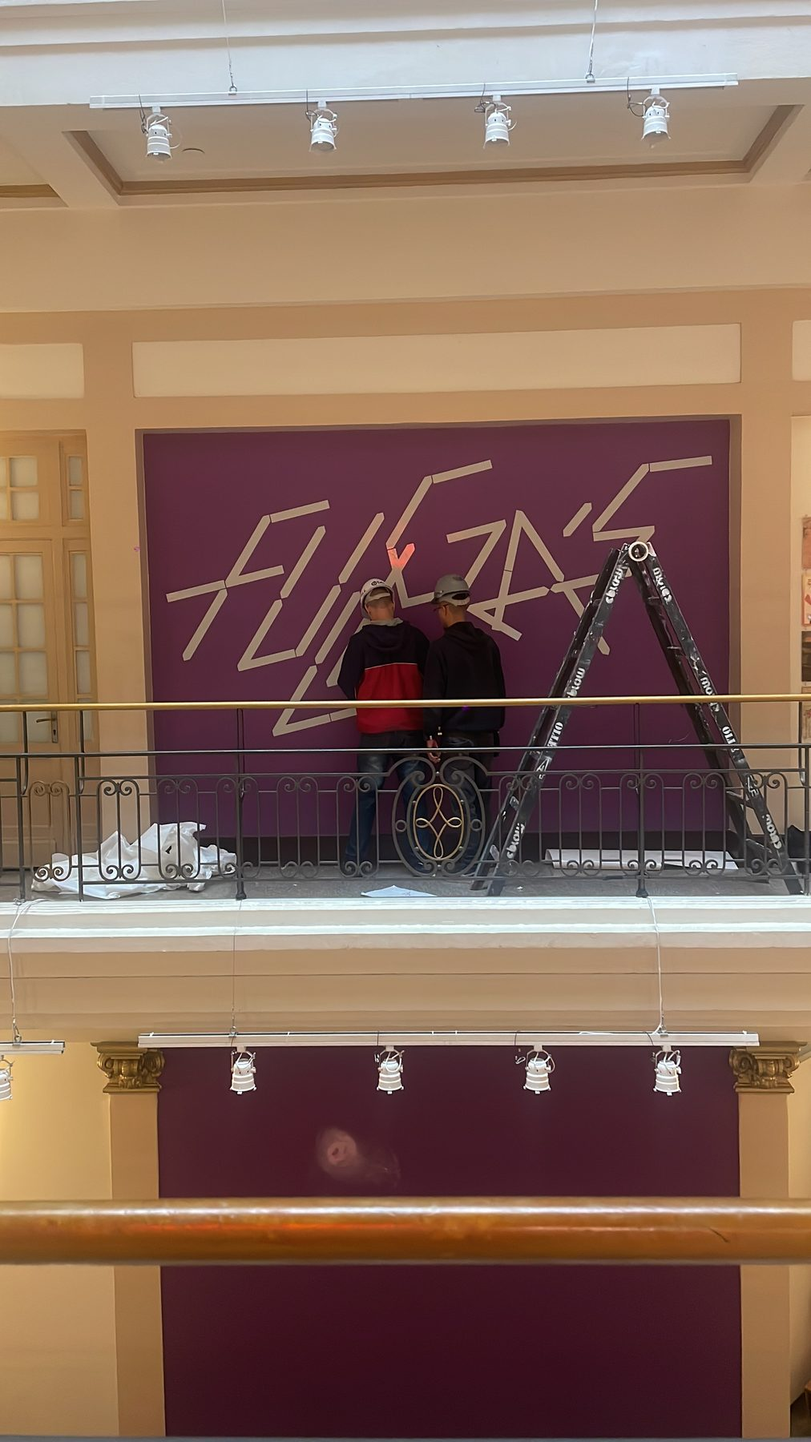
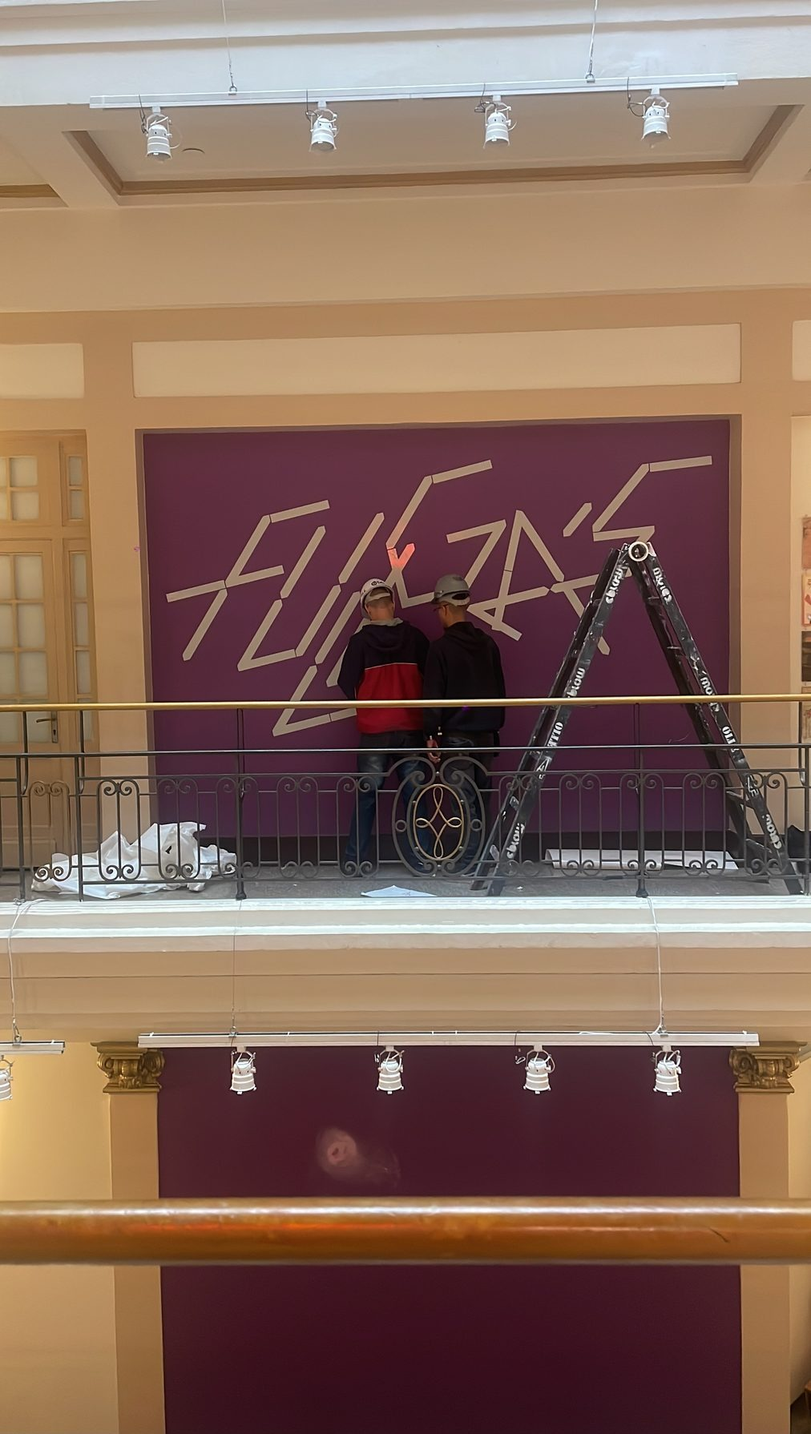
Shorter Bienal and Martinelli texts; trim grey line on Fullgás photo

diff --git a/index.html b/index.html
@@ -37,7 +37,7 @@
 
 <section class="hs" id="work" aria-label="Work">
  <div class="stage">
-  <div class="track" id="track"><div class="proj" id="101" data-tags="identity posters-flyers digital"><figure class="f" style="--r:0.8000"><video src="vid/101_listas.mp4" width="864" height="1080" muted loop playsinline preload="none" aria-label="101Ø ten years motion"></video><figcaption class="cap"><b>101Ø ten years</b><span>Identity, posters and digital materials for the tenth anniversary of the 101Ø party, an underground collective from Belo Horizonte.</span><span><i>Role</i> Visual identity, posters and digital materials</span><span><i>Motion</i> Henrique Martinelli</span><span class="tg">Identity · Posters &amp; flyers · Digital</span></figcaption></figure><figure class="f" style="--r:0.7067"><img src="img/101-5.jpg" width="1270" height="1797" alt="101Ø ten years" decoding="async" draggable="false"></figure><figure class="f" style="--r:0.8000"><img src="img/101-1.jpg" width="1440" height="1800" alt="101Ø ten years" decoding="async" draggable="false"></figure><figure class="f" style="--r:0.5622"><img src="img/101-2.jpg" width="1012" height="1800" alt="101Ø ten years" decoding="async" draggable="false"></figure><figure class="f" style="--r:0.7067"><img src="img/101-4.jpg" width="1270" height="1797" alt="101Ø ten years" decoding="async" draggable="false"></figure><figure class="f" style="--r:0.8000"><img src="img/101-3.jpg" width="1440" height="1800" alt="101Ø ten years" decoding="async" draggable="false"></figure><figure class="f" style="--r:0.8000"><video src="vid/101_std.mp4" width="864" height="1080" muted loop playsinline preload="none" aria-label="101Ø ten years motion"></video></figure></div><div class="proj" id="aicf" data-tags="posters-flyers identity"><figure class="f" style="--r:0.7074"><video src="vid/aicf_anim.mp4" width="764" height="1080" muted loop playsinline preload="none" aria-label="AI Creative Festival motion"></video><figcaption class="cap"><b>AI Creative Festival</b><span>A2 posters and digital assets for the festival. São Paulo, 2025.</span><span><i>Role</i> Development of the festival identity into posters and digital assets</span><span><i>Motion</i> Henrique Martinelli</span><span class="tg">Posters &amp; flyers · Identity</span></figcaption></figure><figure class="f" style="--r:0.7072"><img src="img/aicf-1.jpg" width="1273" height="1800" alt="AI Creative Festival" decoding="async" draggable="false"></figure><figure class="f" style="--r:0.7072"><img src="img/aicf-2.jpg" width="1273" height="1800" alt="AI Creative Festival" decoding="async" draggable="false"></figure><figure class="f" style="--r:0.7072"><img src="img/aicf-3.jpg" width="1273" height="1800" alt="AI Creative Festival" decoding="async" draggable="false"></figure><figure class="f" style="--r:0.7061"><img src="img/aicf-4.jpg" width="1271" height="1800" alt="AI Creative Festival" decoding="async" draggable="false"></figure></div><div class="proj" id="bauhaus" data-tags="exhibition"><figure class="f" style="--r:1.5000"><img src="img/bauhaus-1.jpg" width="2700" height="1800" alt="Bauhaus Imaginista" loading="lazy" decoding="async" draggable="false"><figcaption class="cap"><b>Bauhaus Imaginista</b><span>Graphic materials for the exhibition Bauhaus Imaginista: Aprendizados Recíprocos at Sesc Pompeia. São Paulo, 2018–19.</span><span><i>Role</i> Unfolding of graphic materials, production and installation coordination</span><span><i>At</i> ps.2 arquitetura + design</span><span><i>Visual identity</i> ps.2 arquitetura + design</span><span><i>Curated by</i> Marion von Osten, Grant Watson</span><span><i>Photo</i> Taba Benedicto</span><span class="tg">Exhibition</span></figcaption></figure><figure class="f" style="--r:1.5000"><img src="img/bauhaus-4.jpg" width="2700" height="1800" alt="Bauhaus Imaginista" loading="lazy" decoding="async" draggable="false"></figure><figure class="f" style="--r:1.6589"><img src="img/bauhaus-2.jpg" width="2986" height="1800" alt="Bauhaus Imaginista" loading="lazy" decoding="async" draggable="false"></figure><figure class="f" style="--r:1.5000"><img src="img/bauhaus-3.jpg" width="2700" height="1800" alt="Bauhaus Imaginista" loading="lazy" decoding="async" draggable="false"></figure></div><div class="proj" id="mercosul" data-tags="exhibition"><figure class="f" style="--r:0.5622"><img src="img/mercosul-1.jpg" width="1012" height="1800" alt="Bienal do Mercosul" loading="lazy" decoding="async" draggable="false"><figcaption class="cap"><b>Bienal do Mercosul</b><span>Exhibition graphics for Estalo, the 14th Bienal do Mercosul, adapted to the spaces of each venue. Porto Alegre, 2025.</span><span><i>Role</i> Implementation of exhibition graphics, installation support and spatial adaptation</span><span><i>At</i> Estúdio Margem</span><span><i>Visual identity</i> Margem</span><span><i>Architecture</i> Juliana Godoy</span><span><i>Curated by</i> Raphael Fonseca</span><span class="tg">Exhibition</span></figcaption></figure><figure class="f" style="--r:0.5048"><img src="img/mercosul-grid.jpg" width="782" height="1549" alt="Bienal do Mercosul" loading="lazy" decoding="async" draggable="false"></figure></div><div class="proj" id="casadopovo" data-tags="digital"><figure class="f" style="--r:1.6000"><video src="vid/cdp_scroll.mp4" width="1920" height="1200" muted loop playsinline preload="none" aria-label="Casa do Povo motion"></video><figcaption class="cap"><b>Casa do Povo</b><span>Website design for Casa do Povo, a Jewish antifascist cultural centre in Bom Retiro, São Paulo. casadopovo.org.br</span><span><i>Role</i> Website design</span><span><i>At</i> Estúdio Margem</span><span><i>Visual identity</i> Margem</span><span class="tg">Digital</span></figcaption></figure><figure class="f hov" style="--r:1.36"><p class="hovt">A <b class="cdp">CASA do POVO</b> é um espaço em constante construção. Explore os <span class="hw" data-s="projetos">projetos</span> desenvolvidos em colaboração com diferentes frentes e acompanhe os <span class="hw" data-s="eventos">eventos</span> para saber o que acontece. Conheça o <span class="hw" data-s="povo">povo da casa</span>, os coletivos que habitam e movimentam esse espaço, visite o <span class="hw" data-s="acervo">acervo</span> e <span class="hw" data-s="apoie">apoie</span> para que tudo isso continue pulsando.</p><img class="hst" alt="" aria-hidden="true"></figure><figure class="f bento" style="--r:1.36"><div class="bgrid"><div class="bt bt-projetos" style="background:#fbb6f6;grid-area:1/1/2/3"><img src="svg/projetos.svg" alt="" loading="lazy"></div><div class="bt bt-aberta" style="background:#e6f83a;grid-area:1/3/2/4"><img src="svg/aberta_anim.svg" alt="" loading="lazy"></div><div class="bt bt-logo" style="background:#f4501e;grid-area:1/4/2/5"><img src="svg/logo.svg" alt="" loading="lazy"></div><div class="bt bt-povo" style="background:#e6f83a;grid-area:2/1/3/2"><img src="svg/povo.svg" alt="" loading="lazy"></div><div class="bt bt-fechada" style="background:#fbb6f6;grid-area:2/2/3/3"><img src="svg/fechada_anim.svg" alt="" loading="lazy"></div><div class="bt bt-eventos" style="background:#ffc39b;grid-area:2/3/3/5"><img src="svg/eventos.svg" alt="" loading="lazy"></div><div class="bt bt-acervo" style="background:#0000ff;grid-area:3/1/4/2"><img src="svg/acervo_anim.svg" alt="" loading="lazy"></div><div class="bt bt-apoie" style="background:#f9c8f4;grid-area:3/2/4/3"><img src="svg/apoie.svg" alt="" loading="lazy"></div><div class="bt bt-letters" style="background:#28e3f0;grid-area:3/3/4/5" aria-label="Casa do Povo"><span class="lt">C</span><span class="lt">A</span><span class="lt">S</span><span class="lt">A</span><span class="lt">do</span><span class="lt">P</span><span class="lt">O</span><span class="lt">V</span><span class="lt">O</span></div></div></figure><figure class="f" style="--r:1.0000"><img src="img/cdp-m.jpg" width="1800" height="1800" alt="Casa do Povo" loading="lazy" decoding="async" draggable="false"></figure></div><div class="proj" id="covers" data-tags="covers-records lettering-video"><figure class="f" style="--r:1.0000"><img src="img/shi-0.jpg" width="1800" height="1800" alt="Covers" loading="lazy" decoding="async" draggable="false"><figcaption class="cap"><b>Covers — Shi is Coming</b><span>Lettering and single cover for Shi is Coming, by Shi.</span><span><i>Role</i> Lettering and cover design</span><span><i>With</i> Aleksandra Lindenberg</span><span class="tg">Covers &amp; records · Lettering &amp; video</span></figcaption></figure><figure class="f" style="--r:1.8018"><img src="img/shi-1.jpg" width="3200" height="1776" alt="Covers" loading="lazy" decoding="async" draggable="false"></figure><figure class="f" style="--r:1.0000"><img src="img/perx-2.jpg" width="1800" height="1800" alt="Covers" loading="lazy" decoding="async" draggable="false"><figcaption class="cap"><b>Covers — Martinelli</b><span>Record design for the São Paulo techno producer: the PERX vinyl with a clear sleeve, mirrored lettering and a custom label, and the Raw Cuts CD.</span><span><i>Role</i> Cover, sleeve and label design</span><span><i>PERX photos</i> Pearla Paradoxy</span><span class="tg">Covers &amp; records · Lettering &amp; video</span></figcaption></figure><figure class="f" style="--r:1.0000"><img src="img/perx-3.jpg" width="1800" height="1800" alt="Covers" loading="lazy" decoding="async" draggable="false"></figure><figure class="f" style="--r:1.0018"><img src="img/perx-0.jpg" width="1093" height="1091" alt="Covers" loading="lazy" decoding="async" draggable="false"></figure></div><div class="proj" id="delcu" data-tags="identity posters-flyers digital"><figure class="f" style="--r:1.9083"><img src="img/delcu-5.jpg" width="3435" height="1800" alt="Delcu" loading="lazy" decoding="async" draggable="false"><figcaption class="cap"><b>Delcu</b><span>Identity, Eurotour and agenda posters and Delcu4U radio artwork for the DJ and producer.</span><span><i>Role</i> Visual identity, posters and radio artwork</span><span><i>Motion</i> Henrique Martinelli</span><span class="tg">Identity · Posters &amp; flyers · Digital</span></figcaption></figure><figure class="f" style="--r:0.8306"><img src="img/delcu-1.jpg" width="1495" height="1800" alt="Delcu" loading="lazy" decoding="async" draggable="false"></figure><figure class="f" style="--r:0.7500"><video src="vid/delcu_2026.mp4" width="810" height="1080" muted loop playsinline preload="none" aria-label="Delcu motion"></video></figure><figure class="f" style="--r:0.8000"><img src="img/delcu-2.jpg" width="1440" height="1800" alt="Delcu" loading="lazy" decoding="async" draggable="false"></figure><figure class="f" style="--r:1.0000"><img src="img/delcu-3.jpg" width="1800" height="1800" alt="Delcu" loading="lazy" decoding="async" draggable="false"></figure><figure class="f" style="--r:1.0000"><img src="img/delcu-4.jpg" width="1800" height="1800" alt="Delcu" loading="lazy" decoding="async" draggable="false"></figure><figure class="f" style="--r:0.7497"><img src="img/delcu-6.jpg" width="1330" height="1774" alt="Delcu" loading="lazy" decoding="async" draggable="false"></figure></div><div class="proj" id="ercolano" data-tags="editorial"><figure class="f" style="--r:0.6728"><img src="img/ercolano-5.jpg" width="1211" height="1800" alt="Editora Ercolano" loading="lazy" decoding="async" draggable="false"><figcaption class="cap"><b>Editora Ercolano</b><span>Book design for an independent publisher: Claudia Wonder, Flor do Asfalto, the Fantásticas collection, O Homem Formiga and A Revolta dos Bichos, with its belly band.</span><span><i>Role</i> Editorial design and design coordination</span><span><i>Flor do Asfalto with</i> Aleksandra Lindenberg</span><span class="tg">Editorial</span></figcaption></figure><figure class="f" style="--r:1.2928"><img src="img/ercolano-3.jpg" width="2327" height="1800" alt="Editora Ercolano" loading="lazy" decoding="async" draggable="false"></figure><figure class="f" style="--r:1.3994"><img src="img/ercolano-6.jpg" width="2519" height="1800" alt="Editora Ercolano" loading="lazy" decoding="async" draggable="false"></figure><figure class="f" style="--r:2.7439"><img src="img/ercolano-4.jpg" width="4939" height="1800" alt="Editora Ercolano" loading="lazy" decoding="async" draggable="false"></figure><figure class="f" style="--r:2.5705"><img src="img/ercolano-10.jpg" width="4591" height="1786" alt="Editora Ercolano" loading="lazy" decoding="async" draggable="false"></figure><figure class="f" style="--r:1.5039"><img src="img/ercolano-rev.jpg" width="2707" height="1800" alt="Editora Ercolano" loading="lazy" decoding="async" draggable="false"></figure></div><div class="proj" id="evoe" data-tags="identity digital"><figure class="f" style="--r:0.6650"><img src="img/evoe-1.jpg" width="1197" height="1800" alt="Evoé" loading="lazy" decoding="async" draggable="false"><figcaption class="cap"><b>Evoé</b><span>Identity and interface for a crowdfunding platform for cultural projects.</span><span><i>Role</i> Visual identity and UI design</span><span><i>Logo motion</i> Henrique Martinelli</span><span class="tg">Identity · Digital</span></figcaption></figure><figure class="f" style="--r:1.9829"><video src="vid/evoe_logo.mp4" width="1860" height="938" muted loop playsinline preload="none" aria-label="Evoé motion"></video></figure><figure class="f" style="--r:1.5000"><img src="img/evoe-10.jpg" width="2700" height="1800" alt="Evoé" loading="lazy" decoding="async" draggable="false"></figure><figure class="f" style="--r:0.6667"><img src="img/evoe-5.jpg" width="1200" height="1800" alt="Evoé" loading="lazy" decoding="async" draggable="false"></figure><figure class="f" style="--r:1.5000"><img src="img/evoe-11.jpg" width="2700" height="1800" alt="Evoé" loading="lazy" decoding="async" draggable="false"></figure></div><div class="proj" id="flyers" data-tags="posters-flyers"><figure class="f" style="--r:0.8000"><video src="vid/lc_v2feed.mp4" width="864" height="1080" muted loop playsinline preload="none" aria-label="Flyers &amp; Agendas motion"></video><figcaption class="cap"><b>Flyers &amp; Agendas — La Chope des Artistes</b><span>Animated flyers for La Chope des Artistes in Paris, curated by Bamao Yendé.</span><span><i>Role</i> Design and typography</span><span><i>Motion</i> Henrique Martinelli</span><span class="tg">Posters &amp; flyers</span></figcaption></figure><figure class="f" style="--r:0.8000"><video src="vid/lc_ed2.mp4" width="864" height="1080" muted loop playsinline preload="none" aria-label="Flyers &amp; Agendas motion"></video></figure><figure class="f" style="--r:0.5611"><video src="vid/anddy_Preto.mp4" width="606" height="1080" muted loop playsinline preload="none" aria-label="Flyers &amp; Agendas motion"></video><figcaption class="cap"><b>Flyers &amp; Agendas — Anddy Williams</b><span>Animated booking agendas for the DJ and music producer.</span><span><i>Role</i> Design and typography</span><span><i>Motion</i> Henrique Martinelli</span><span class="tg">Posters &amp; flyers</span></figcaption></figure><figure class="f" style="--r:0.5611"><video src="vid/anddy_branco.mp4" width="606" height="1080" muted loop playsinline preload="none" aria-label="Flyers &amp; Agendas motion"></video></figure><figure class="f" style="--r:0.8000"><img src="img/kontronatura-1.jpg" width="1440" height="1800" alt="Flyers &amp; Agendas" loading="lazy" decoding="async" draggable="false"><figcaption class="cap"><b>Flyers &amp; Agendas — Kontronatura</b><span>Eurotour 2024 posters for the DJ and music producer.</span><span><i>Role</i> Design and typography</span><span class="tg">Posters &amp; flyers</span></figcaption></figure><figure class="f" style="--r:0.8000"><img src="img/kontronatura-2.jpg" width="1440" height="1800" alt="Flyers &amp; Agendas" loading="lazy" decoding="async" draggable="false"></figure><figure class="f" style="--r:0.7500"><img src="img/covers-1.jpg" width="1350" height="1800" alt="Flyers &amp; Agendas" loading="lazy" decoding="async" draggable="false"><figcaption class="cap"><b>Flyers &amp; Agendas — Enantios Dromos &amp; Rosario Bohío</b><span>Party flyers and an invitation.</span><span><i>Role</i> Design and typography</span><span class="tg">Posters &amp; flyers</span></figcaption></figure><figure class="f" style="--r:0.6667"><img src="img/covers-2.jpg" width="1200" height="1800" alt="Flyers &amp; Agendas" loading="lazy" decoding="async" draggable="false"></figure></div><div class="proj" id="fullgas" data-tags="exhibition"><figure class="f" style="--r:0.5622"><img src="img/fullgas-4.jpg" width="1012" height="1800" alt="Fullgás" loading="lazy" decoding="async" draggable="false"><figcaption class="cap"><b>Fullgás</b><span>Exhibition graphics for Fullgás – Visual Arts and the 1980s in Brazil, at the Centro Cultural Banco do Brasil. 2024–25.</span><span><i>Role</i> Unfolding of graphic materials and installation of exhibition graphics</span><span><i>At</i> Estúdio Margem</span><span><i>Visual identity</i> Margem</span><span><i>Architecture</i> Juliana Godoy</span><span><i>Curated by</i> Raphael Fonseca</span><span class="tg">Exhibition</span></figcaption></figure><figure class="f" style="--r:1.4478"><img src="img/fullgas-2.jpg" width="2606" height="1800" alt="Fullgás" loading="lazy" decoding="async" draggable="false"></figure><figure class="f" style="--r:0.5622"><img src="img/fullgas-1.jpg" width="1012" height="1800" alt="Fullgás" loading="lazy" decoding="async" draggable="false"></figure><figure class="f" style="--r:0.5622"><img src="img/fullgas-3.jpg" width="1012" height="1800" alt="Fullgás" loading="lazy" decoding="async" draggable="false"></figure></div><div class="proj" id="nossachance" data-tags="lettering-video"><figure class="f glit" style="--r:1.716"><canvas aria-label="Nossa Chance glitter lettering"></canvas><figcaption class="cap"><b>Nossa Chance</b><span>Lettering, single cover, titles and credits for the music video, also printed on the quilt seen in the stills. Universal Music, 2025.</span><span><i>Role</i> Lettering, cover, titles and credits</span><span><i>Direction</i> Brina Reis</span><span><i>Still photography</i> Vitor Duarte</span><span><i>Styling</i> Juan Duarte</span><span class="tg">Lettering &amp; video</span></figcaption></figure><figure class="f" style="--r:1.0000"><img src="img/nossachance-10.jpg" width="1800" height="1800" alt="Nossa Chance" loading="lazy" decoding="async" draggable="false"></figure><figure class="f" style="--r:1.4694"><img src="img/nossachance-8.jpg" width="2645" height="1800" alt="Nossa Chance" loading="lazy" decoding="async" draggable="false"></figure><figure class="f" style="--r:1.0289"><img src="img/nossachance-5.jpg" width="1852" height="1800" alt="Nossa Chance" loading="lazy" decoding="async" draggable="false"></figure><figure class="f" style="--r:1.0000"><img src="img/nossachance-1.jpg" width="1800" height="1800" alt="Nossa Chance" loading="lazy" decoding="async" draggable="false"></figure><figure class="f" style="--r:1.0778"><img src="img/nossachance-3.jpg" width="956" height="887" alt="Nossa Chance" loading="lazy" decoding="async" draggable="false"></figure></div><div class="proj" id="nossavoz" data-tags="editorial"><figure class="f" style="--r:0.7533"><img src="img/nossavoz-1.jpg" width="1356" height="1800" alt="Nossa Voz" loading="lazy" decoding="async" draggable="false"><figcaption class="cap"><b>Nossa Voz</b><span>Editorial design for the newspaper of Casa do Povo, first published from 1947 to 1964.</span><span><i>Role</i> Editorial design and layout</span><span><i>At</i> Estúdio Margem</span><span><i>Visual identity and graphic project</i> Margem</span><span class="tg">Editorial</span></figcaption></figure><figure class="f" style="--r:1.3711"><img src="img/nossavoz-4.jpg" width="2468" height="1800" alt="Nossa Voz" loading="lazy" decoding="async" draggable="false"></figure><figure class="f" style="--r:1.3622"><img src="img/nossavoz-2.jpg" width="2452" height="1800" alt="Nossa Voz" loading="lazy" decoding="async" draggable="false"></figure><figure class="f" style="--r:1.3711"><img src="img/nossavoz-5.jpg" width="2468" height="1800" alt="Nossa Voz" loading="lazy" decoding="async" draggable="false"></figure><figure class="f" style="--r:1.3711"><img src="img/nossavoz-6.jpg" width="2468" height="1800" alt="Nossa Voz" loading="lazy" decoding="async" draggable="false"></figure></div><div class="proj" id="piloto" data-tags="identity exhibition"><figure class="f" style="--r:0.8000"><img src="img/piloto-1.jpg" width="1440" height="1800" alt="Piloto Milano" loading="lazy" decoding="async" draggable="false"><figcaption class="cap"><b>Piloto Milano</b><span>Identity and materials for a show of Brazilian design during Milan Design Week 2025, created together with Aleksandra Lindenberg.</span><span><i>Role</i> Visual identity and materials, co-designed</span><span><i>With</i> Aleksandra Lindenberg</span><span class="tg">Identity · Exhibition</span></figcaption></figure><figure class="f" style="--r:0.7500"><img src="img/piloto-4.jpg" width="1350" height="1800" alt="Piloto Milano" loading="lazy" decoding="async" draggable="false"></figure><figure class="f" style="--r:0.6678"><img src="img/piloto-2.jpg" width="1202" height="1800" alt="Piloto Milano" loading="lazy" decoding="async" draggable="false"></figure><figure class="f" style="--r:1.5000"><img src="img/piloto-3.jpg" width="2700" height="1800" alt="Piloto Milano" loading="lazy" decoding="async" draggable="false"></figure></div></div>
+  <div class="track" id="track"><div class="proj" id="101" data-tags="identity posters-flyers digital"><figure class="f" style="--r:0.8000"><video src="vid/101_listas.mp4" width="864" height="1080" muted loop playsinline preload="none" aria-label="101Ø ten years motion"></video><figcaption class="cap"><b>101Ø ten years</b><span>Identity, posters and digital materials for the tenth anniversary of the 101Ø party, an underground collective from Belo Horizonte.</span><span><i>Role</i> Visual identity, posters and digital materials</span><span><i>Motion</i> Henrique Martinelli</span><span class="tg">Identity · Posters &amp; flyers · Digital</span></figcaption></figure><figure class="f" style="--r:0.7067"><img src="img/101-5.jpg" width="1270" height="1797" alt="101Ø ten years" decoding="async" draggable="false"></figure><figure class="f" style="--r:0.8000"><img src="img/101-1.jpg" width="1440" height="1800" alt="101Ø ten years" decoding="async" draggable="false"></figure><figure class="f" style="--r:0.5622"><img src="img/101-2.jpg" width="1012" height="1800" alt="101Ø ten years" decoding="async" draggable="false"></figure><figure class="f" style="--r:0.7067"><img src="img/101-4.jpg" width="1270" height="1797" alt="101Ø ten years" decoding="async" draggable="false"></figure><figure class="f" style="--r:0.8000"><img src="img/101-3.jpg" width="1440" height="1800" alt="101Ø ten years" decoding="async" draggable="false"></figure><figure class="f" style="--r:0.8000"><video src="vid/101_std.mp4" width="864" height="1080" muted loop playsinline preload="none" aria-label="101Ø ten years motion"></video></figure></div><div class="proj" id="aicf" data-tags="posters-flyers identity"><figure class="f" style="--r:0.7074"><video src="vid/aicf_anim.mp4" width="764" height="1080" muted loop playsinline preload="none" aria-label="AI Creative Festival motion"></video><figcaption class="cap"><b>AI Creative Festival</b><span>A2 posters and digital assets for the festival. São Paulo, 2025.</span><span><i>Role</i> Development of the festival identity into posters and digital assets</span><span><i>Motion</i> Henrique Martinelli</span><span class="tg">Posters &amp; flyers · Identity</span></figcaption></figure><figure class="f" style="--r:0.7072"><img src="img/aicf-1.jpg" width="1273" height="1800" alt="AI Creative Festival" decoding="async" draggable="false"></figure><figure class="f" style="--r:0.7072"><img src="img/aicf-2.jpg" width="1273" height="1800" alt="AI Creative Festival" decoding="async" draggable="false"></figure><figure class="f" style="--r:0.7072"><img src="img/aicf-3.jpg" width="1273" height="1800" alt="AI Creative Festival" decoding="async" draggable="false"></figure><figure class="f" style="--r:0.7061"><img src="img/aicf-4.jpg" width="1271" height="1800" alt="AI Creative Festival" decoding="async" draggable="false"></figure></div><div class="proj" id="bauhaus" data-tags="exhibition"><figure class="f" style="--r:1.5000"><img src="img/bauhaus-1.jpg" width="2700" height="1800" alt="Bauhaus Imaginista" loading="lazy" decoding="async" draggable="false"><figcaption class="cap"><b>Bauhaus Imaginista</b><span>Graphic materials for the exhibition Bauhaus Imaginista: Aprendizados Recíprocos at Sesc Pompeia. São Paulo, 2018–19.</span><span><i>Role</i> Unfolding of graphic materials, production and installation coordination</span><span><i>At</i> ps.2 arquitetura + design</span><span><i>Visual identity</i> ps.2 arquitetura + design</span><span><i>Curated by</i> Marion von Osten, Grant Watson</span><span><i>Photo</i> Taba Benedicto</span><span class="tg">Exhibition</span></figcaption></figure><figure class="f" style="--r:1.5000"><img src="img/bauhaus-4.jpg" width="2700" height="1800" alt="Bauhaus Imaginista" loading="lazy" decoding="async" draggable="false"></figure><figure class="f" style="--r:1.6589"><img src="img/bauhaus-2.jpg" width="2986" height="1800" alt="Bauhaus Imaginista" loading="lazy" decoding="async" draggable="false"></figure><figure class="f" style="--r:1.5000"><img src="img/bauhaus-3.jpg" width="2700" height="1800" alt="Bauhaus Imaginista" loading="lazy" decoding="async" draggable="false"></figure></div><div class="proj" id="mercosul" data-tags="exhibition"><figure class="f" style="--r:0.5622"><img src="img/mercosul-1.jpg" width="1012" height="1800" alt="Bienal do Mercosul" loading="lazy" decoding="async" draggable="false"><figcaption class="cap"><b>Bienal do Mercosul</b><span>Exhibition graphics for Estalo, the 14th Bienal do Mercosul. Porto Alegre, 2025.</span><span><i>Role</i> Implementation of exhibition graphics and installation support</span><span><i>At</i> Estúdio Margem</span><span><i>Visual identity</i> Margem</span><span><i>Architecture</i> Juliana Godoy</span><span><i>Curated by</i> Raphael Fonseca</span><span class="tg">Exhibition</span></figcaption></figure><figure class="f" style="--r:0.5048"><img src="img/mercosul-grid.jpg" width="782" height="1549" alt="Bienal do Mercosul" loading="lazy" decoding="async" draggable="false"></figure></div><div class="proj" id="casadopovo" data-tags="digital"><figure class="f" style="--r:1.6000"><video src="vid/cdp_scroll.mp4" width="1920" height="1200" muted loop playsinline preload="none" aria-label="Casa do Povo motion"></video><figcaption class="cap"><b>Casa do Povo</b><span>Website design for Casa do Povo, a Jewish antifascist cultural centre in Bom Retiro, São Paulo. casadopovo.org.br</span><span><i>Role</i> Website design</span><span><i>At</i> Estúdio Margem</span><span><i>Visual identity</i> Margem</span><span class="tg">Digital</span></figcaption></figure><figure class="f hov" style="--r:1.36"><p class="hovt">A <b class="cdp">CASA do POVO</b> é um espaço em constante construção. Explore os <span class="hw" data-s="projetos">projetos</span> desenvolvidos em colaboração com diferentes frentes e acompanhe os <span class="hw" data-s="eventos">eventos</span> para saber o que acontece. Conheça o <span class="hw" data-s="povo">povo da casa</span>, os coletivos que habitam e movimentam esse espaço, visite o <span class="hw" data-s="acervo">acervo</span> e <span class="hw" data-s="apoie">apoie</span> para que tudo isso continue pulsando.</p><img class="hst" alt="" aria-hidden="true"></figure><figure class="f bento" style="--r:1.36"><div class="bgrid"><div class="bt bt-projetos" style="background:#fbb6f6;grid-area:1/1/2/3"><img src="svg/projetos.svg" alt="" loading="lazy"></div><div class="bt bt-aberta" style="background:#e6f83a;grid-area:1/3/2/4"><img src="svg/aberta_anim.svg" alt="" loading="lazy"></div><div class="bt bt-logo" style="background:#f4501e;grid-area:1/4/2/5"><img src="svg/logo.svg" alt="" loading="lazy"></div><div class="bt bt-povo" style="background:#e6f83a;grid-area:2/1/3/2"><img src="svg/povo.svg" alt="" loading="lazy"></div><div class="bt bt-fechada" style="background:#fbb6f6;grid-area:2/2/3/3"><img src="svg/fechada_anim.svg" alt="" loading="lazy"></div><div class="bt bt-eventos" style="background:#ffc39b;grid-area:2/3/3/5"><img src="svg/eventos.svg" alt="" loading="lazy"></div><div class="bt bt-acervo" style="background:#0000ff;grid-area:3/1/4/2"><img src="svg/acervo_anim.svg" alt="" loading="lazy"></div><div class="bt bt-apoie" style="background:#f9c8f4;grid-area:3/2/4/3"><img src="svg/apoie.svg" alt="" loading="lazy"></div><div class="bt bt-letters" style="background:#28e3f0;grid-area:3/3/4/5" aria-label="Casa do Povo"><span class="lt">C</span><span class="lt">A</span><span class="lt">S</span><span class="lt">A</span><span class="lt">do</span><span class="lt">P</span><span class="lt">O</span><span class="lt">V</span><span class="lt">O</span></div></div></figure><figure class="f" style="--r:1.0000"><img src="img/cdp-m.jpg" width="1800" height="1800" alt="Casa do Povo" loading="lazy" decoding="async" draggable="false"></figure></div><div class="proj" id="covers" data-tags="covers-records lettering-video"><figure class="f" style="--r:1.0000"><img src="img/shi-0.jpg" width="1800" height="1800" alt="Covers" loading="lazy" decoding="async" draggable="false"><figcaption class="cap"><b>Covers — Shi is Coming</b><span>Lettering and single cover for Shi is Coming, by Shi.</span><span><i>Role</i> Lettering and cover design</span><span><i>With</i> Aleksandra Lindenberg</span><span class="tg">Covers &amp; records · Lettering &amp; video</span></figcaption></figure><figure class="f" style="--r:1.8018"><img src="img/shi-1.jpg" width="3200" height="1776" alt="Covers" loading="lazy" decoding="async" draggable="false"></figure><figure class="f" style="--r:1.0000"><img src="img/perx-2.jpg" width="1800" height="1800" alt="Covers" loading="lazy" decoding="async" draggable="false"><figcaption class="cap"><b>Covers — Martinelli</b><span>Record design for the techno producer: the PERX vinyl with a clear sleeve, mirrored lettering and a custom label, and the Raw Cuts CD.</span><span><i>Role</i> Cover, sleeve and label design</span><span><i>PERX photos</i> Pearla Paradoxy</span><span class="tg">Covers &amp; records · Lettering &amp; video</span></figcaption></figure><figure class="f" style="--r:1.0000"><img src="img/perx-3.jpg" width="1800" height="1800" alt="Covers" loading="lazy" decoding="async" draggable="false"></figure><figure class="f" style="--r:1.0018"><img src="img/perx-0.jpg" width="1093" height="1091" alt="Covers" loading="lazy" decoding="async" draggable="false"></figure></div><div class="proj" id="delcu" data-tags="identity posters-flyers digital"><figure class="f" style="--r:1.9083"><img src="img/delcu-5.jpg" width="3435" height="1800" alt="Delcu" loading="lazy" decoding="async" draggable="false"><figcaption class="cap"><b>Delcu</b><span>Identity, Eurotour and agenda posters and Delcu4U radio artwork for the DJ and producer.</span><span><i>Role</i> Visual identity, posters and radio artwork</span><span><i>Motion</i> Henrique Martinelli</span><span class="tg">Identity · Posters &amp; flyers · Digital</span></figcaption></figure><figure class="f" style="--r:0.8306"><img src="img/delcu-1.jpg" width="1495" height="1800" alt="Delcu" loading="lazy" decoding="async" draggable="false"></figure><figure class="f" style="--r:0.7500"><video src="vid/delcu_2026.mp4" width="810" height="1080" muted loop playsinline preload="none" aria-label="Delcu motion"></video></figure><figure class="f" style="--r:0.8000"><img src="img/delcu-2.jpg" width="1440" height="1800" alt="Delcu" loading="lazy" decoding="async" draggable="false"></figure><figure class="f" style="--r:1.0000"><img src="img/delcu-3.jpg" width="1800" height="1800" alt="Delcu" loading="lazy" decoding="async" draggable="false"></figure><figure class="f" style="--r:1.0000"><img src="img/delcu-4.jpg" width="1800" height="1800" alt="Delcu" loading="lazy" decoding="async" draggable="false"></figure><figure class="f" style="--r:0.7497"><img src="img/delcu-6.jpg" width="1330" height="1774" alt="Delcu" loading="lazy" decoding="async" draggable="false"></figure></div><div class="proj" id="ercolano" data-tags="editorial"><figure class="f" style="--r:0.6728"><img src="img/ercolano-5.jpg" width="1211" height="1800" alt="Editora Ercolano" loading="lazy" decoding="async" draggable="false"><figcaption class="cap"><b>Editora Ercolano</b><span>Book design for an independent publisher: Claudia Wonder, Flor do Asfalto, the Fantásticas collection, O Homem Formiga and A Revolta dos Bichos, with its belly band.</span><span><i>Role</i> Editorial design and design coordination</span><span><i>Flor do Asfalto with</i> Aleksandra Lindenberg</span><span class="tg">Editorial</span></figcaption></figure><figure class="f" style="--r:1.2928"><img src="img/ercolano-3.jpg" width="2327" height="1800" alt="Editora Ercolano" loading="lazy" decoding="async" draggable="false"></figure><figure class="f" style="--r:1.3994"><img src="img/ercolano-6.jpg" width="2519" height="1800" alt="Editora Ercolano" loading="lazy" decoding="async" draggable="false"></figure><figure class="f" style="--r:2.7439"><img src="img/ercolano-4.jpg" width="4939" height="1800" alt="Editora Ercolano" loading="lazy" decoding="async" draggable="false"></figure><figure class="f" style="--r:2.5705"><img src="img/ercolano-10.jpg" width="4591" height="1786" alt="Editora Ercolano" loading="lazy" decoding="async" draggable="false"></figure><figure class="f" style="--r:1.5039"><img src="img/ercolano-rev.jpg" width="2707" height="1800" alt="Editora Ercolano" loading="lazy" decoding="async" draggable="false"></figure></div><div class="proj" id="evoe" data-tags="identity digital"><figure class="f" style="--r:0.6650"><img src="img/evoe-1.jpg" width="1197" height="1800" alt="Evoé" loading="lazy" decoding="async" draggable="false"><figcaption class="cap"><b>Evoé</b><span>Identity and interface for a crowdfunding platform for cultural projects.</span><span><i>Role</i> Visual identity and UI design</span><span><i>Logo motion</i> Henrique Martinelli</span><span class="tg">Identity · Digital</span></figcaption></figure><figure class="f" style="--r:1.9829"><video src="vid/evoe_logo.mp4" width="1860" height="938" muted loop playsinline preload="none" aria-label="Evoé motion"></video></figure><figure class="f" style="--r:1.5000"><img src="img/evoe-10.jpg" width="2700" height="1800" alt="Evoé" loading="lazy" decoding="async" draggable="false"></figure><figure class="f" style="--r:0.6667"><img src="img/evoe-5.jpg" width="1200" height="1800" alt="Evoé" loading="lazy" decoding="async" draggable="false"></figure><figure class="f" style="--r:1.5000"><img src="img/evoe-11.jpg" width="2700" height="1800" alt="Evoé" loading="lazy" decoding="async" draggable="false"></figure></div><div class="proj" id="flyers" data-tags="posters-flyers"><figure class="f" style="--r:0.8000"><video src="vid/lc_v2feed.mp4" width="864" height="1080" muted loop playsinline preload="none" aria-label="Flyers &amp; Agendas motion"></video><figcaption class="cap"><b>Flyers &amp; Agendas — La Chope des Artistes</b><span>Animated flyers for La Chope des Artistes in Paris, curated by Bamao Yendé.</span><span><i>Role</i> Design and typography</span><span><i>Motion</i> Henrique Martinelli</span><span class="tg">Posters &amp; flyers</span></figcaption></figure><figure class="f" style="--r:0.8000"><video src="vid/lc_ed2.mp4" width="864" height="1080" muted loop playsinline preload="none" aria-label="Flyers &amp; Agendas motion"></video></figure><figure class="f" style="--r:0.5611"><video src="vid/anddy_Preto.mp4" width="606" height="1080" muted loop playsinline preload="none" aria-label="Flyers &amp; Agendas motion"></video><figcaption class="cap"><b>Flyers &amp; Agendas — Anddy Williams</b><span>Animated booking agendas for the DJ and music producer.</span><span><i>Role</i> Design and typography</span><span><i>Motion</i> Henrique Martinelli</span><span class="tg">Posters &amp; flyers</span></figcaption></figure><figure class="f" style="--r:0.5611"><video src="vid/anddy_branco.mp4" width="606" height="1080" muted loop playsinline preload="none" aria-label="Flyers &amp; Agendas motion"></video></figure><figure class="f" style="--r:0.8000"><img src="img/kontronatura-1.jpg" width="1440" height="1800" alt="Flyers &amp; Agendas" loading="lazy" decoding="async" draggable="false"><figcaption class="cap"><b>Flyers &amp; Agendas — Kontronatura</b><span>Eurotour 2024 posters for the DJ and music producer.</span><span><i>Role</i> Design and typography</span><span class="tg">Posters &amp; flyers</span></figcaption></figure><figure class="f" style="--r:0.8000"><img src="img/kontronatura-2.jpg" width="1440" height="1800" alt="Flyers &amp; Agendas" loading="lazy" decoding="async" draggable="false"></figure><figure class="f" style="--r:0.7500"><img src="img/covers-1.jpg" width="1350" height="1800" alt="Flyers &amp; Agendas" loading="lazy" decoding="async" draggable="false"><figcaption class="cap"><b>Flyers &amp; Agendas — Enantios Dromos &amp; Rosario Bohío</b><span>Party flyers and an invitation.</span><span><i>Role</i> Design and typography</span><span class="tg">Posters &amp; flyers</span></figcaption></figure><figure class="f" style="--r:0.6667"><img src="img/covers-2.jpg" width="1200" height="1800" alt="Flyers &amp; Agendas" loading="lazy" decoding="async" draggable="false"></figure></div><div class="proj" id="fullgas" data-tags="exhibition"><figure class="f" style="--r:0.5622"><img src="img/fullgas-4.jpg" width="1012" height="1800" alt="Fullgás" loading="lazy" decoding="async" draggable="false"><figcaption class="cap"><b>Fullgás</b><span>Exhibition graphics for Fullgás – Visual Arts and the 1980s in Brazil, at the Centro Cultural Banco do Brasil. 2024–25.</span><span><i>Role</i> Unfolding of graphic materials and installation of exhibition graphics</span><span><i>At</i> Estúdio Margem</span><span><i>Visual identity</i> Margem</span><span><i>Architecture</i> Juliana Godoy</span><span><i>Curated by</i> Raphael Fonseca</span><span class="tg">Exhibition</span></figcaption></figure><figure class="f" style="--r:1.4478"><img src="img/fullgas-2.jpg" width="2606" height="1800" alt="Fullgás" loading="lazy" decoding="async" draggable="false"></figure><figure class="f" style="--r:0.5654"><img src="img/fullgas-1.jpg" width="1012" height="1790" alt="Fullgás" loading="lazy" decoding="async" draggable="false"></figure><figure class="f" style="--r:0.5622"><img src="img/fullgas-3.jpg" width="1012" height="1800" alt="Fullgás" loading="lazy" decoding="async" draggable="false"></figure></div><div class="proj" id="nossachance" data-tags="lettering-video"><figure class="f glit" style="--r:1.716"><canvas aria-label="Nossa Chance glitter lettering"></canvas><figcaption class="cap"><b>Nossa Chance</b><span>Lettering, single cover, titles and credits for the music video, also printed on the quilt seen in the stills. Universal Music, 2025.</span><span><i>Role</i> Lettering, cover, titles and credits</span><span><i>Direction</i> Brina Reis</span><span><i>Still photography</i> Vitor Duarte</span><span><i>Styling</i> Juan Duarte</span><span class="tg">Lettering &amp; video</span></figcaption></figure><figure class="f" style="--r:1.0000"><img src="img/nossachance-10.jpg" width="1800" height="1800" alt="Nossa Chance" loading="lazy" decoding="async" draggable="false"></figure><figure class="f" style="--r:1.4694"><img src="img/nossachance-8.jpg" width="2645" height="1800" alt="Nossa Chance" loading="lazy" decoding="async" draggable="false"></figure><figure class="f" style="--r:1.0289"><img src="img/nossachance-5.jpg" width="1852" height="1800" alt="Nossa Chance" loading="lazy" decoding="async" draggable="false"></figure><figure class="f" style="--r:1.0000"><img src="img/nossachance-1.jpg" width="1800" height="1800" alt="Nossa Chance" loading="lazy" decoding="async" draggable="false"></figure><figure class="f" style="--r:1.0778"><img src="img/nossachance-3.jpg" width="956" height="887" alt="Nossa Chance" loading="lazy" decoding="async" draggable="false"></figure></div><div class="proj" id="nossavoz" data-tags="editorial"><figure class="f" style="--r:0.7533"><img src="img/nossavoz-1.jpg" width="1356" height="1800" alt="Nossa Voz" loading="lazy" decoding="async" draggable="false"><figcaption class="cap"><b>Nossa Voz</b><span>Editorial design for the newspaper of Casa do Povo, first published from 1947 to 1964.</span><span><i>Role</i> Editorial design and layout</span><span><i>At</i> Estúdio Margem</span><span><i>Visual identity and graphic project</i> Margem</span><span class="tg">Editorial</span></figcaption></figure><figure class="f" style="--r:1.3711"><img src="img/nossavoz-4.jpg" width="2468" height="1800" alt="Nossa Voz" loading="lazy" decoding="async" draggable="false"></figure><figure class="f" style="--r:1.3622"><img src="img/nossavoz-2.jpg" width="2452" height="1800" alt="Nossa Voz" loading="lazy" decoding="async" draggable="false"></figure><figure class="f" style="--r:1.3711"><img src="img/nossavoz-5.jpg" width="2468" height="1800" alt="Nossa Voz" loading="lazy" decoding="async" draggable="false"></figure><figure class="f" style="--r:1.3711"><img src="img/nossavoz-6.jpg" width="2468" height="1800" alt="Nossa Voz" loading="lazy" decoding="async" draggable="false"></figure></div><div class="proj" id="piloto" data-tags="identity exhibition"><figure class="f" style="--r:0.8000"><img src="img/piloto-1.jpg" width="1440" height="1800" alt="Piloto Milano" loading="lazy" decoding="async" draggable="false"><figcaption class="cap"><b>Piloto Milano</b><span>Identity and materials for a show of Brazilian design during Milan Design Week 2025, created together with Aleksandra Lindenberg.</span><span><i>Role</i> Visual identity and materials, co-designed</span><span><i>With</i> Aleksandra Lindenberg</span><span class="tg">Identity · Exhibition</span></figcaption></figure><figure class="f" style="--r:0.7500"><img src="img/piloto-4.jpg" width="1350" height="1800" alt="Piloto Milano" loading="lazy" decoding="async" draggable="false"></figure><figure class="f" style="--r:0.6678"><img src="img/piloto-2.jpg" width="1202" height="1800" alt="Piloto Milano" loading="lazy" decoding="async" draggable="false"></figure><figure class="f" style="--r:1.5000"><img src="img/piloto-3.jpg" width="2700" height="1800" alt="Piloto Milano" loading="lazy" decoding="async" draggable="false"></figure></div></div>
   <span class="count" id="count"></span>
   <span class="hint">← Drag / swipe →</span>
  </div>
